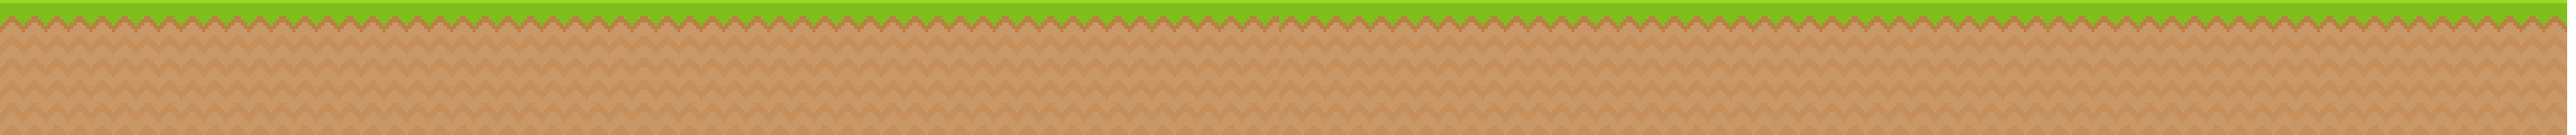
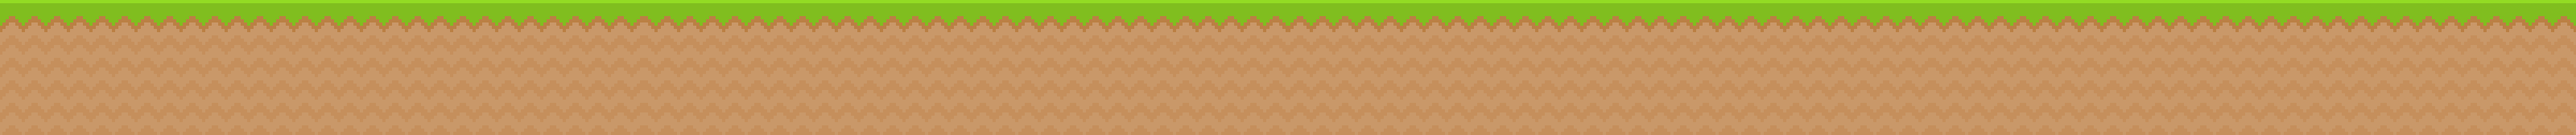
Alpha 0.0.0.0.8 (movement update part 2)

Changed region(s): [[0.5, 0.0, 1.0, 1.0]]

diff --git a/main.py b/main.py
@@ -202,46 +202,73 @@ class Player(pygame.sprite.Sprite):
         self.screen = screen
         self.on_ground = True  # Track whether the player is on the ground or in the air
         self.game = game  # Reference to the game object to access the background position
+        self.walking_left = False
+        self.was_walking = self.walking
+
+        #going right
         self.walking_frames = [
             pygame.image.load("graphics/Player/player_walk_1.png").convert_alpha(),
             pygame.image.load("graphics/Player/player_walk_2.png").convert_alpha()
         ]
         self.walking_animation = Animation(self.walking_frames,10)
-        self.jumping_frame = pygame.image.load("graphics/Player/jump.png").convert_alpha()
+        self.jumping_frame = [pygame.image.load("graphics/Player/jump.png").convert_alpha()]
+        self.jumping_animation = Animation(self.jumping_frame,10)
+
+        #going left
+        self.walking_backward_frames = [
+            pygame.image.load("graphics/Player/player_walk_back_1.png").convert_alpha(),
+            pygame.image.load("graphics/Player/player_walk_back_2.png").convert_alpha()
+        ]
+        self.walking_backward_animation = Animation(self.walking_backward_frames,10)
+        self.jumping_back_frame = [pygame.image.load("graphics/Player/jump_back.png").convert_alpha()]
+        self.jumping_backward_animation = Animation(self.jumping_back_frame,10)
+
+        #facing forward
+        self.holding_still_frame = [pygame.image.load("graphics/Player/player_stand.png").convert_alpha()]
+        self.holding_still_animation = Animation(self.holding_still_frame,10)
+        
+
 
     def update(self):
-        # Gravity applies only when not on the ground
-        if not self.on_ground:
-            self.gravity += 0.5  # Simulate gravity
-
-        # Prevent the player from falling through the ground
-        if self.rect.bottom >= 701:  # Assuming 700 is the ground level
-            self.rect.bottom = 700
-            self.gravity = 0  # Reset gravity
-            self.on_ground = True  # Player is back on the ground
         
-        if self.walking == True:
-            self.walking_animation.update()
-            
+        if not self.on_ground:
+            self.gravity += 0.5  
+            self.jumping_animation.update()
 
-        # Logic to prevent the player from moving once reaching the middle
+        if self.on_ground and not self.walking:
+            self.holding_still_animation.update()
+
+        if self.rect.bottom >= 701:
+            self.rect.bottom = 700
+            self.gravity = 0
+            self.on_ground = True 
+
+            if self.was_walking and self.speed != 0:
+                self.walking = True
+
+        if self.walking and self.on_ground:
+            if self.speed > 0: #right
+                self.walking_animation.update()
+            elif self.speed < 0: #left
+                self.walking_backward_animation.update()
+
         if self.rect.left < self.screen.get_width() // 2:
-            # Player can still move to the left
+            
             self.rect.x += self.speed
         elif self.rect.left >= self.screen.get_width() // 2:
-            # If the player is past the middle, check if the background is at 0,0
+            
             if self.game.background_x == 0:
-                # If the background is at the left edge, the player can move further left
+                
                 self.rect.x += self.speed
             elif self.game.background_x == -2900:
-                # Otherwise, stop the player from moving
+                
                 self.rect.x += self.speed
             else:
                 self.rect.x = self.screen.get_width() // 2
         if self.rect.x <= 0 or self.rect.x >= 1000 and self.game.background_x <= -3100:
             self.speed = 0
 
-        # Update the player's position based on gravity
+        
         self.rect.y += self.gravity
         
 
@@ -249,14 +276,25 @@ class Player(pygame.sprite.Sprite):
         if self.on_ground:
             self.gravity = -15
             self.on_ground = False
+            self.was_walking = self.walking
+            self.walking = False
             print("Jumping!")
 
     def draw(self):
-        if self.walking == True:
-            self.image = self.walking_animation.get_current_frame()
+        if not self.on_ground:
+            self.walking = False
+            if self.speed > 0: #right
+                self.image = self.jumping_animation.get_current_frame()
+            elif self.speed < 0: #left
+                self.image = self.jumping_backward_animation.get_current_frame()
+        elif self.walking:
+            if self.speed > 0: #right
+                self.image = self.walking_animation.get_current_frame()
+            elif self.speed < 0: #left
+                self.image = self.walking_backward_animation.get_current_frame()
         else:
-            self.image = self.walking_frames[0]
-        self.screen.blit(self.image,self.rect)
+            self.image = self.holding_still_frame[0]
+        self.screen.blit(self.image, self.rect)
 
 
 class Game():
@@ -353,7 +391,6 @@ class Game():
 
         # Blit the two ground images
         self.screen.blit(ground_surface, (self.background_x, 700))
-        self.screen.blit(ground_surface, (self.background_x + self.screen.get_width(), 700))
 
     def handle_player_input(self):
         for event in pygame.event.get():
@@ -382,6 +419,7 @@ class Game():
             if event.type == pygame.KEYUP:
                 if event.key == pygame.K_d or event.key == pygame.K_a:
                     self.player.speed = 0  # Stop movement when key is released
+                    self.player.was_walking = self.player.walking
                     self.player.walking = False
 
     def game_loop(self):
@@ -408,5 +446,5 @@ class Game():
             pygame.display.flip()
             self.clock.tick(60)
 
-window = Window(1000, 800, "Into the SpaceHole Version Alpha 0.0.0.0.7")
+window = Window(1000, 800, "Into the SpaceHole Version Alpha 0.0.0.0.8")
 window.main_loop()
